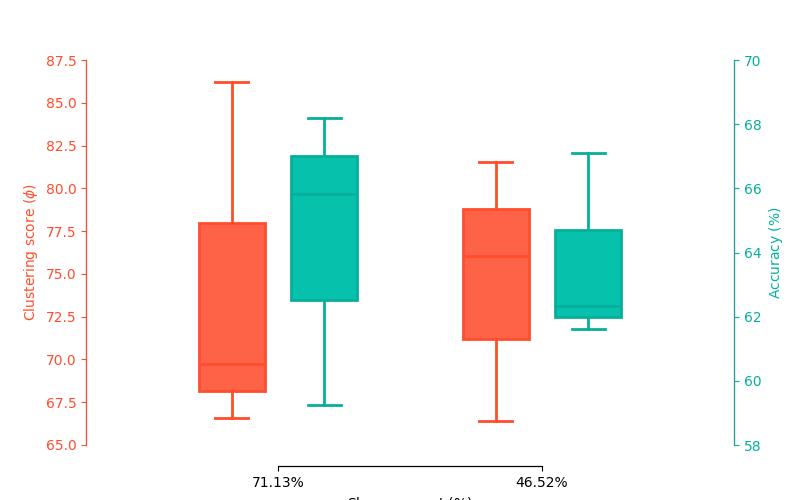
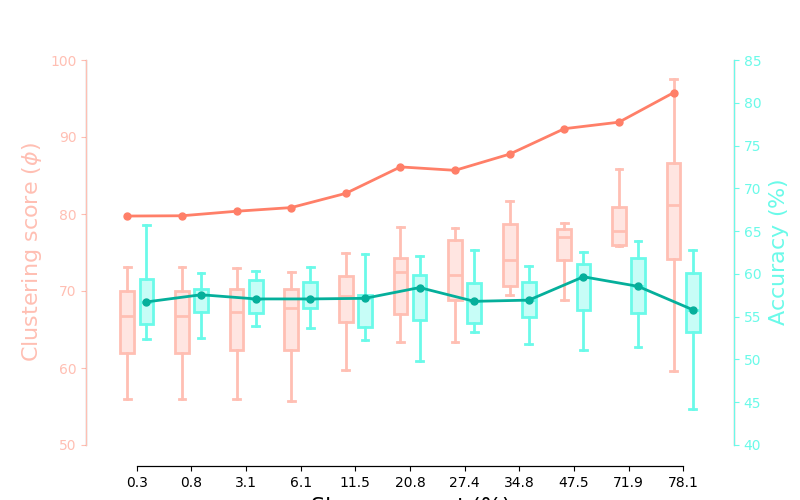
trying to make it conscious

diff --git a/noise_analysis/plot.py b/noise_analysis/plot.py
@@ -635,8 +635,6 @@ def plot_phi_bars(phi_means, sleep_lengths, sleep_amount):
 
 def get_blue_colors(n):
     # Using the reversed Blues colormap ensures that:
-    # - 0 -> darkest blue
-    # - 1 -> lightest blue
     cmap = plt.cm.Blues_r
     # Generate n values from 0 (dark) to 1 (light) and get the corresponding color for each
     colors = [cmap(x) for x in np.linspace(0, 0.7, n)]
@@ -652,13 +650,15 @@ def plot_phi_acc(all_scores):
 
     # extract mean sleep period for each sleep rate
     sleep_amount_mean = phi_means[:, 3]
-    labels = np.char.mod("%.2f%%", sleep_amount_mean)
-    y1 = all_scores[:, :, 1]
-    y2 = all_scores[:, :, 8]
-    c1 = "#FF6347"
-    c2 = "#06C2AC"
-    c11 = "#ff4d2d"
-    c22 = "#05af9b"
+    labels = np.char.mod("%.1f", sleep_amount_mean)[::-1]
+    y1 = all_scores[:, :, 1][::-1]
+    y2 = all_scores[:, :, 8][::-1]
+    c1 = "#ffe5e1"
+    c2 = "#c7fdf7"
+    c11 = "#ffbfb3"
+    c22 = "#6afae9"
+    c111 = "#ff7f68"
+    c222 = "#05af9b"
 
     # parameters for positioning
     positions = np.arange(len(labels))
@@ -669,16 +669,22 @@ def plot_phi_acc(all_scores):
     data1 = [y1[i] for i in range(len(labels))]
     data2 = [y2[i] for i in range(len(labels))]
     linewidth = 2
+    flier_size = 3
+    marker_size = 5
     # boxplot on left axis
     box1 = ax1.boxplot(
         data1,
         positions=positions - width1 / 2,
         widths=width2,
+        showfliers=False,
         patch_artist=True,
         boxprops=dict(facecolor=c1, edgecolor=c11, linewidth=linewidth),
-        medianprops=dict(color=c11, linewidth=linewidth),
-        whiskerprops=dict(linewidth=linewidth),
-        capprops=dict(linewidth=linewidth),
+        medianprops=dict(color=c11, linewidth=linewidth, zorder=4),
+        whiskerprops=dict(linewidth=linewidth, zorder=2),
+        capprops=dict(linewidth=linewidth, zorder=2),
+        flierprops=dict(
+            markerfacecolor=c1, markersize=flier_size, markeredgecolor=c11, zorder=2
+        ),
     )
     # boxplot on right axis
     box2 = ax2.boxplot(
@@ -686,10 +692,14 @@ def plot_phi_acc(all_scores):
         positions=positions + width1 / 2,
         widths=width2,
         patch_artist=True,
+        showfliers=False,
         boxprops=dict(facecolor=c2, edgecolor=c22, linewidth=linewidth),
-        medianprops=dict(color=c22, linewidth=linewidth),
-        whiskerprops=dict(linewidth=linewidth),
-        capprops=dict(linewidth=linewidth),
+        medianprops=dict(color=c22, linewidth=linewidth, zorder=5),
+        whiskerprops=dict(linewidth=linewidth, zorder=3),
+        capprops=dict(linewidth=linewidth, zorder=3),
+        flierprops=dict(
+            markerfacecolor=c2, markersize=flier_size, markeredgecolor=c22, zorder=3
+        ),
     )
 
     # Change outer box (edge) color
@@ -700,12 +710,42 @@ def plot_phi_acc(all_scores):
         for item in box2[element]:
             item.set_color(c22)  # Change 'red' to your preferred color
 
+    # 1) calculate the medians yourself
+    medians1 = np.array([np.median(d) for d in data1])
+    medians2 = np.array([np.median(d) for d in data2])
+    pos1 = positions - width1 / 2
+    pos2 = positions + width1 / 2
+
+    # 2) plot group1’s median‐connecting line behind everything (low zorder)
+    ax1.plot(
+        pos1,
+        medians1,
+        linestyle="-",
+        marker="o",
+        markersize=marker_size,
+        color=c111,
+        linewidth=linewidth,
+        zorder=6,
+    )
+
+    # 3) plot group2’s median‐connecting line on top (high zorder)
+    ax2.plot(
+        pos2,
+        medians2,
+        linestyle="-",
+        marker="o",
+        markersize=marker_size,
+        color=c222,
+        linewidth=linewidth,
+        zorder=6,
+    )
+
     # labels, ticks, legends
     ax1.set_xticks(positions)
     ax1.set_xticklabels(labels)
-    ax1.set_xlabel("Sleep amount ($\\%$)")
-    ax1.set_ylabel("Clustering score ($\\phi$)", color=c11)
-    ax2.set_ylabel("Accuracy ($\\%$)", color=c22)
+    ax1.set_xlabel("Sleep amount ($\\%$)", fontsize=16)
+    ax1.set_ylabel("Clustering score ($\\phi$)", color=c11, fontsize=16)
+    ax2.set_ylabel("Accuracy ($\\%$)", color=c22, fontsize=16)
     ax2.spines["left"].set_color(c11)
     ax2.spines["right"].set_color(c22)
     ax2.tick_params(axis="y", colors=c22)

diff --git a/noise_analysis/big_comb.py b/noise_analysis/big_comb.py
@@ -329,12 +329,6 @@ class snn_sleepy:
                 self.phi_all_scores,
             )
 
-            # save phi_means
-            np.save(
-                os.path.join(data_dir, "phi_means.npy"),
-                self.phi_means,
-            )
-
             print("\rphi data has been saved", end="")
 
         if load_phi_model:
@@ -347,8 +341,6 @@ class snn_sleepy:
                 self.phi_all_scores = np.load(
                     os.path.join(data_dir, "phi_all_scores.npy")
                 )
-                # load phi_means
-                self.phi_means = np.load(os.path.join(data_dir, "phi_means.npy"))
                 self.loaded_phi_model = True
                 print("\rphi data has been loaded", end="")
 
@@ -782,6 +774,76 @@ class snn_sleepy:
                 model_parameters=self.model_parameters,
                 load_test_model=False,
             )
+
+        # get data_dir for retrieving MNIST-images
+        data_parameters = {"pixel_size": int(np.sqrt(self.N_x)), "train_": True}
+
+        # Define folder to load data
+        folders = os.listdir("data/mdata")
+
+        # Search for existing data
+        if len(folders) > 0:
+            for folder in folders:
+                json_file_path = os.path.join(
+                    "data", "mdata", folder, "data_parameters.json"
+                )
+
+                with open(json_file_path, "r") as j:
+                    ex_params = json.loads(j.read())
+
+                # Check if parameters are the same as the current ones
+                if ex_params == data_parameters:
+                    data_dir = os.path.join("data/mdata", folder)
+            if data_dir is None:
+                print("Could not find the mdata directory.")
+                download = False
+
+        # get epochs
+        epochs = 60000 // self.num_items
+
+        # loop over epochs
+        for e in range(epochs):
+            # create data
+            (
+                data_train,
+                labels_train,
+                data_test,
+                labels_test,
+                labels_true_train,
+                labels_true_test,
+            ) = create_data(
+                pixel_size=int(np.sqrt(self.N_x)),
+                num_steps=self.num_steps,
+                plot_comparison=False,
+                gain=self.gain,
+                gain_labels=self.gain_labels,
+                train_=True,
+                offset=self.offset,
+                download=False,
+                data_dir=data_dir,
+                true_labels=False,
+                N_classes=self.N_classes,
+                first_spike_time=self.first_spike_time,
+                time_var_input=self.time_var_input,
+                num_images=self.num_images,
+                add_breaks=self.add_breaks,
+                break_lengths=self.break_lengths,
+                noisy_data=self.noisy_data,
+                noise_level=self.noise_level,
+                classes=self.classes,
+                test_data_ratio=self.test_data_ratio,
+            )
+
+            # Main loop over training
+
+            # Train model
+
+            # Test model
+
+            # Compute phi and accuracy scores
+
+            # Remove data
+
         if not self.model_loaded:
             # train model
             (

diff --git a/noise_analysis/main.py b/noise_analysis/main.py
@@ -27,28 +27,34 @@ snn_N.train(
     plot_accuracy_train=False,
     compare_decay_rates=True,
     weight_decay_rate_exc=[
+        0.999995,
+        0.999993,
         0.99999,
         0.99997,
-        # 0.99995,
-        # 0.99993,
-        # 0.9999,
-        # 0.9998,
-        # 0.9996,
-        # 0.9992,
-        # 0.997,
+        0.99995,
+        0.99993,
+        0.9999,
+        0.9998,
+        0.9996,
+        0.9992,
+        0.997,
+        0.0,
     ],
     weight_decay_rate_inh=[
+        0.999995,
+        0.999993,
         0.99999,
         0.99997,
-        # 0.99995,
-        # 0.99993,
-        # 0.9999,
-        # 0.9998,
-        # 0.9996,
-        # 0.9992,
-        # 0.997,
+        0.99995,
+        0.99993,
+        0.9999,
+        0.9998,
+        0.9996,
+        0.9992,
+        0.997,
+        0.0,
     ],
-    samples=3,
+    samples=10,
     force_train=False,
     save_test_data=True,
     plot_weights=False,

diff --git a/noise_analysis/train.py b/noise_analysis/train.py
@@ -576,16 +576,9 @@ def train_network(
                 spikes[t + 1, :st] = 0
                 spikes[t + 1, pn:] = 0
                 spike_labels[t] = -2
-                count1 = True
-            else:
-                count1 = False
+                sleep_amount += 1
             if sleep_now_inh and t < T - 2:
                 spike_labels[t] = -2
-                count2 = True
-            else:
-                count2 = False
-            if count1 or count2:
-                sleep_amount += 1
 
     sleep_percent = (sleep_amount / T) * 100
 
